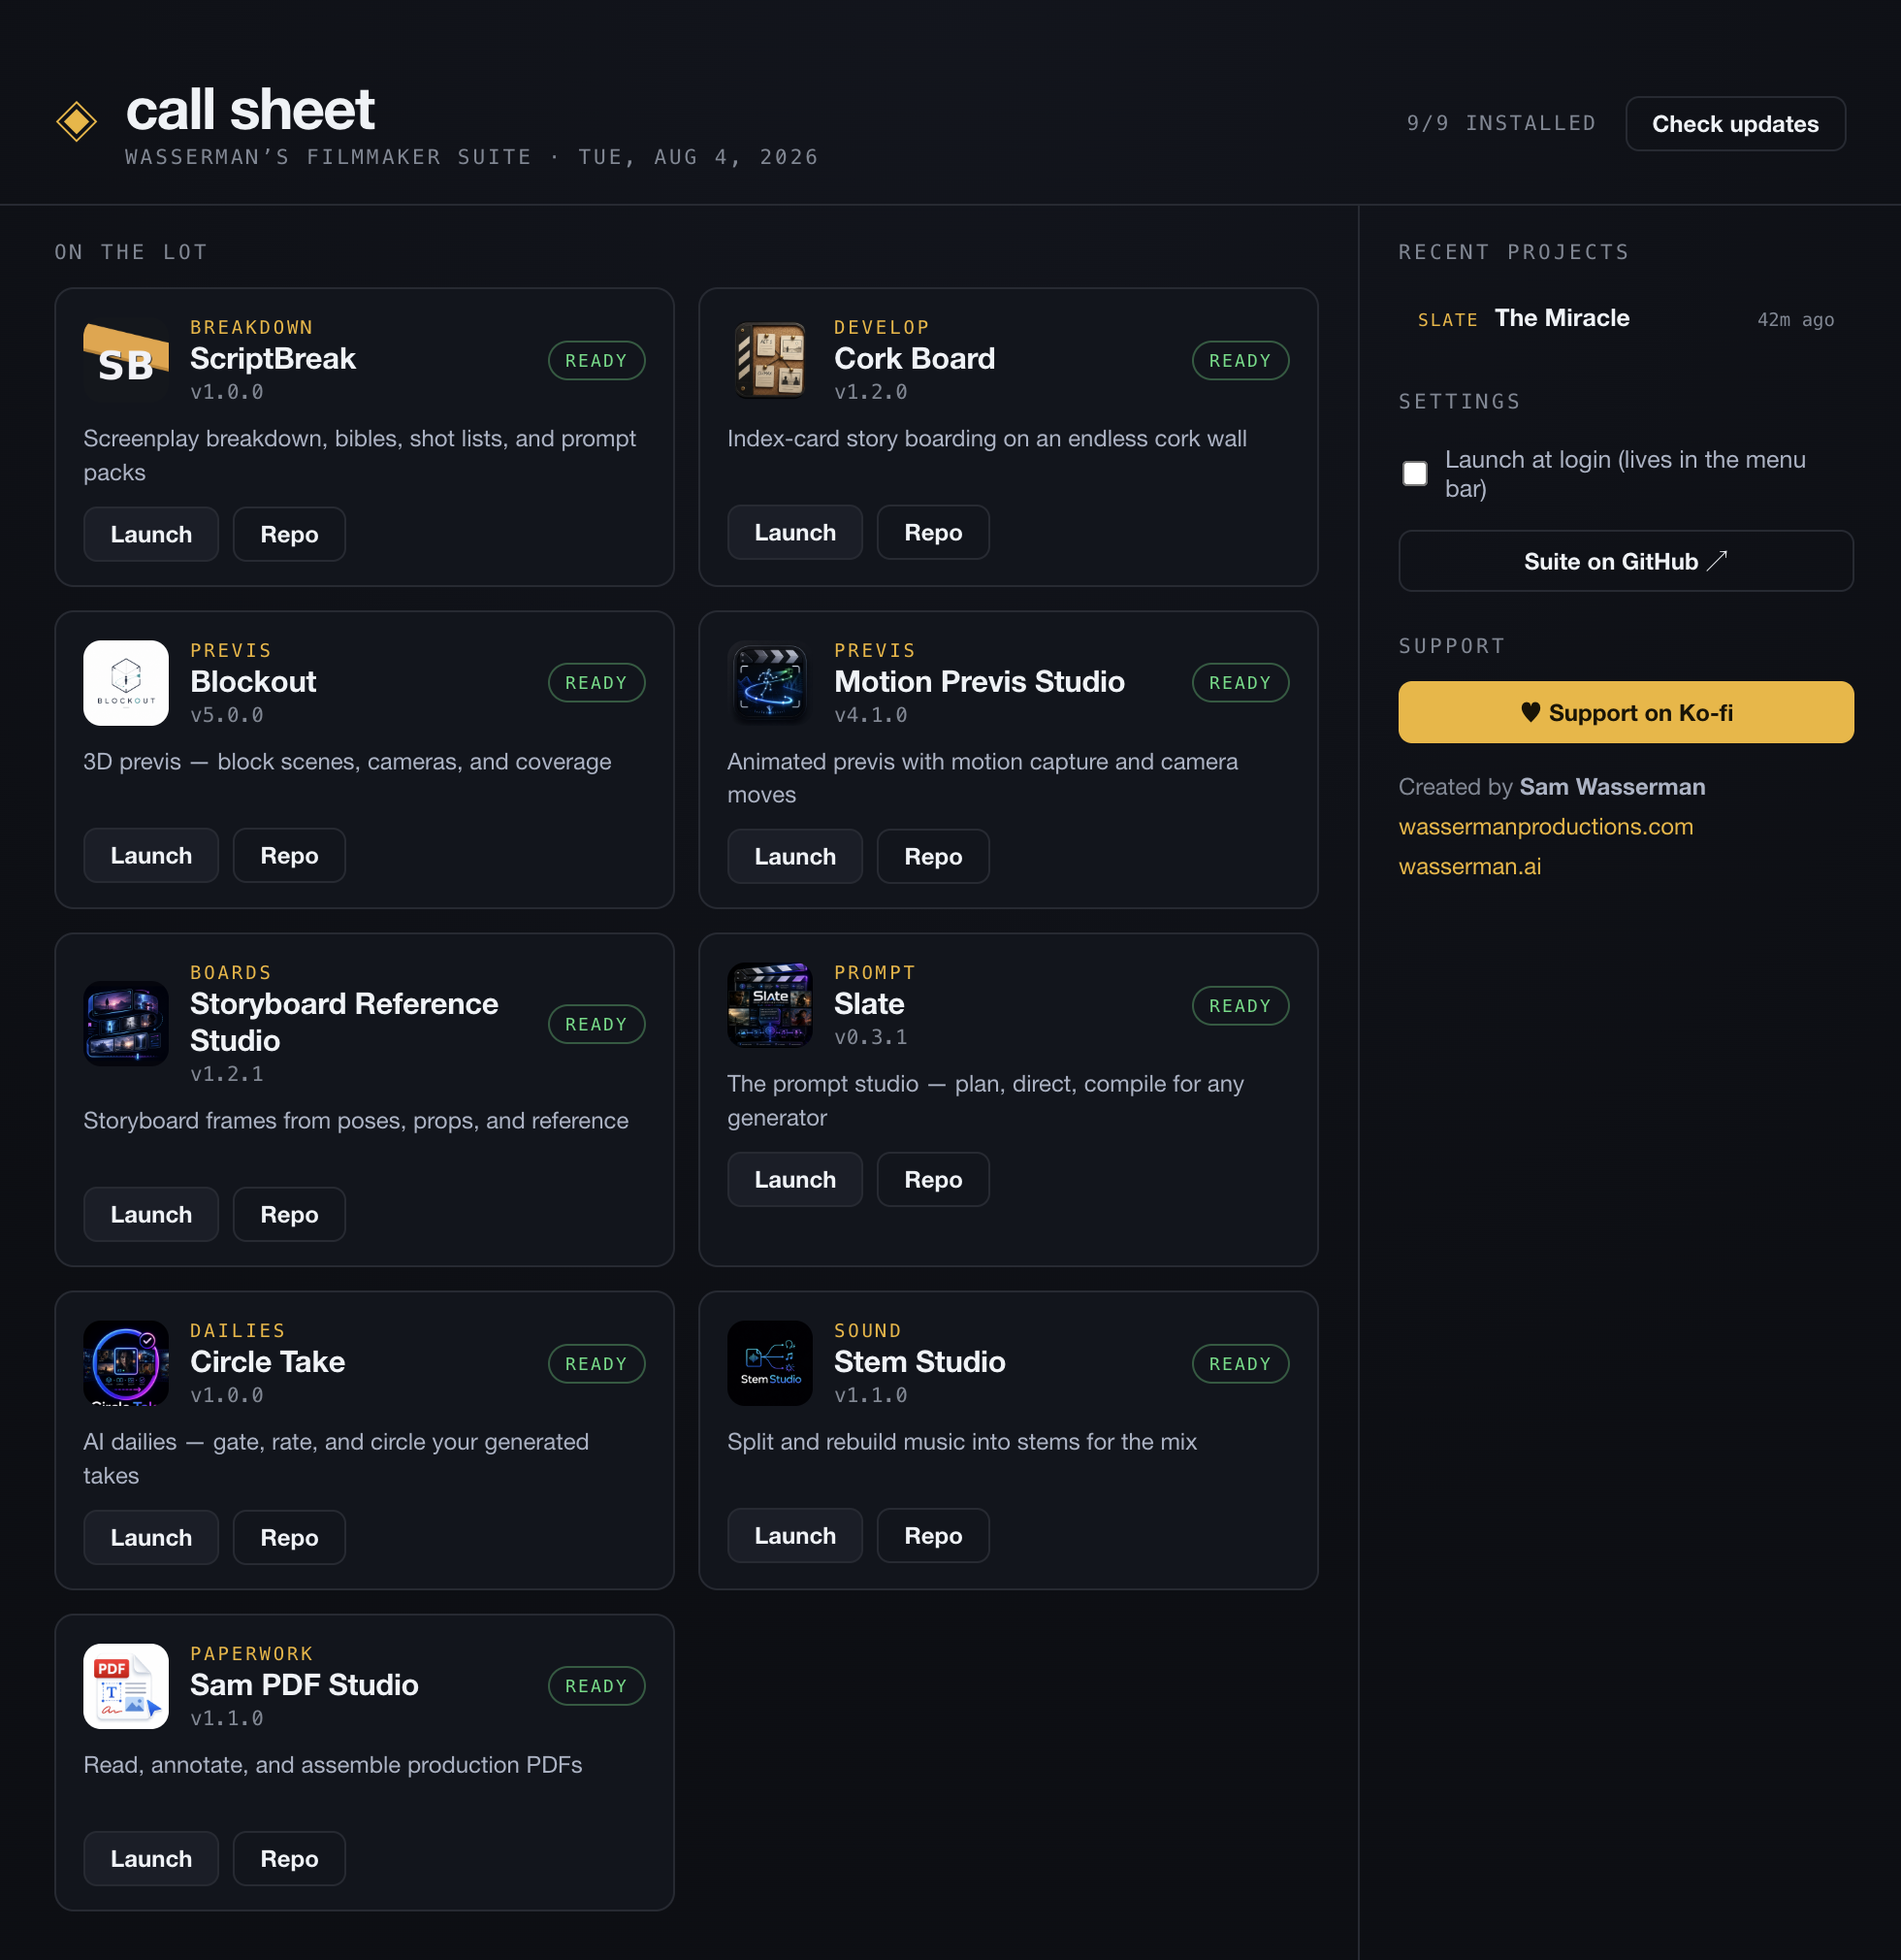
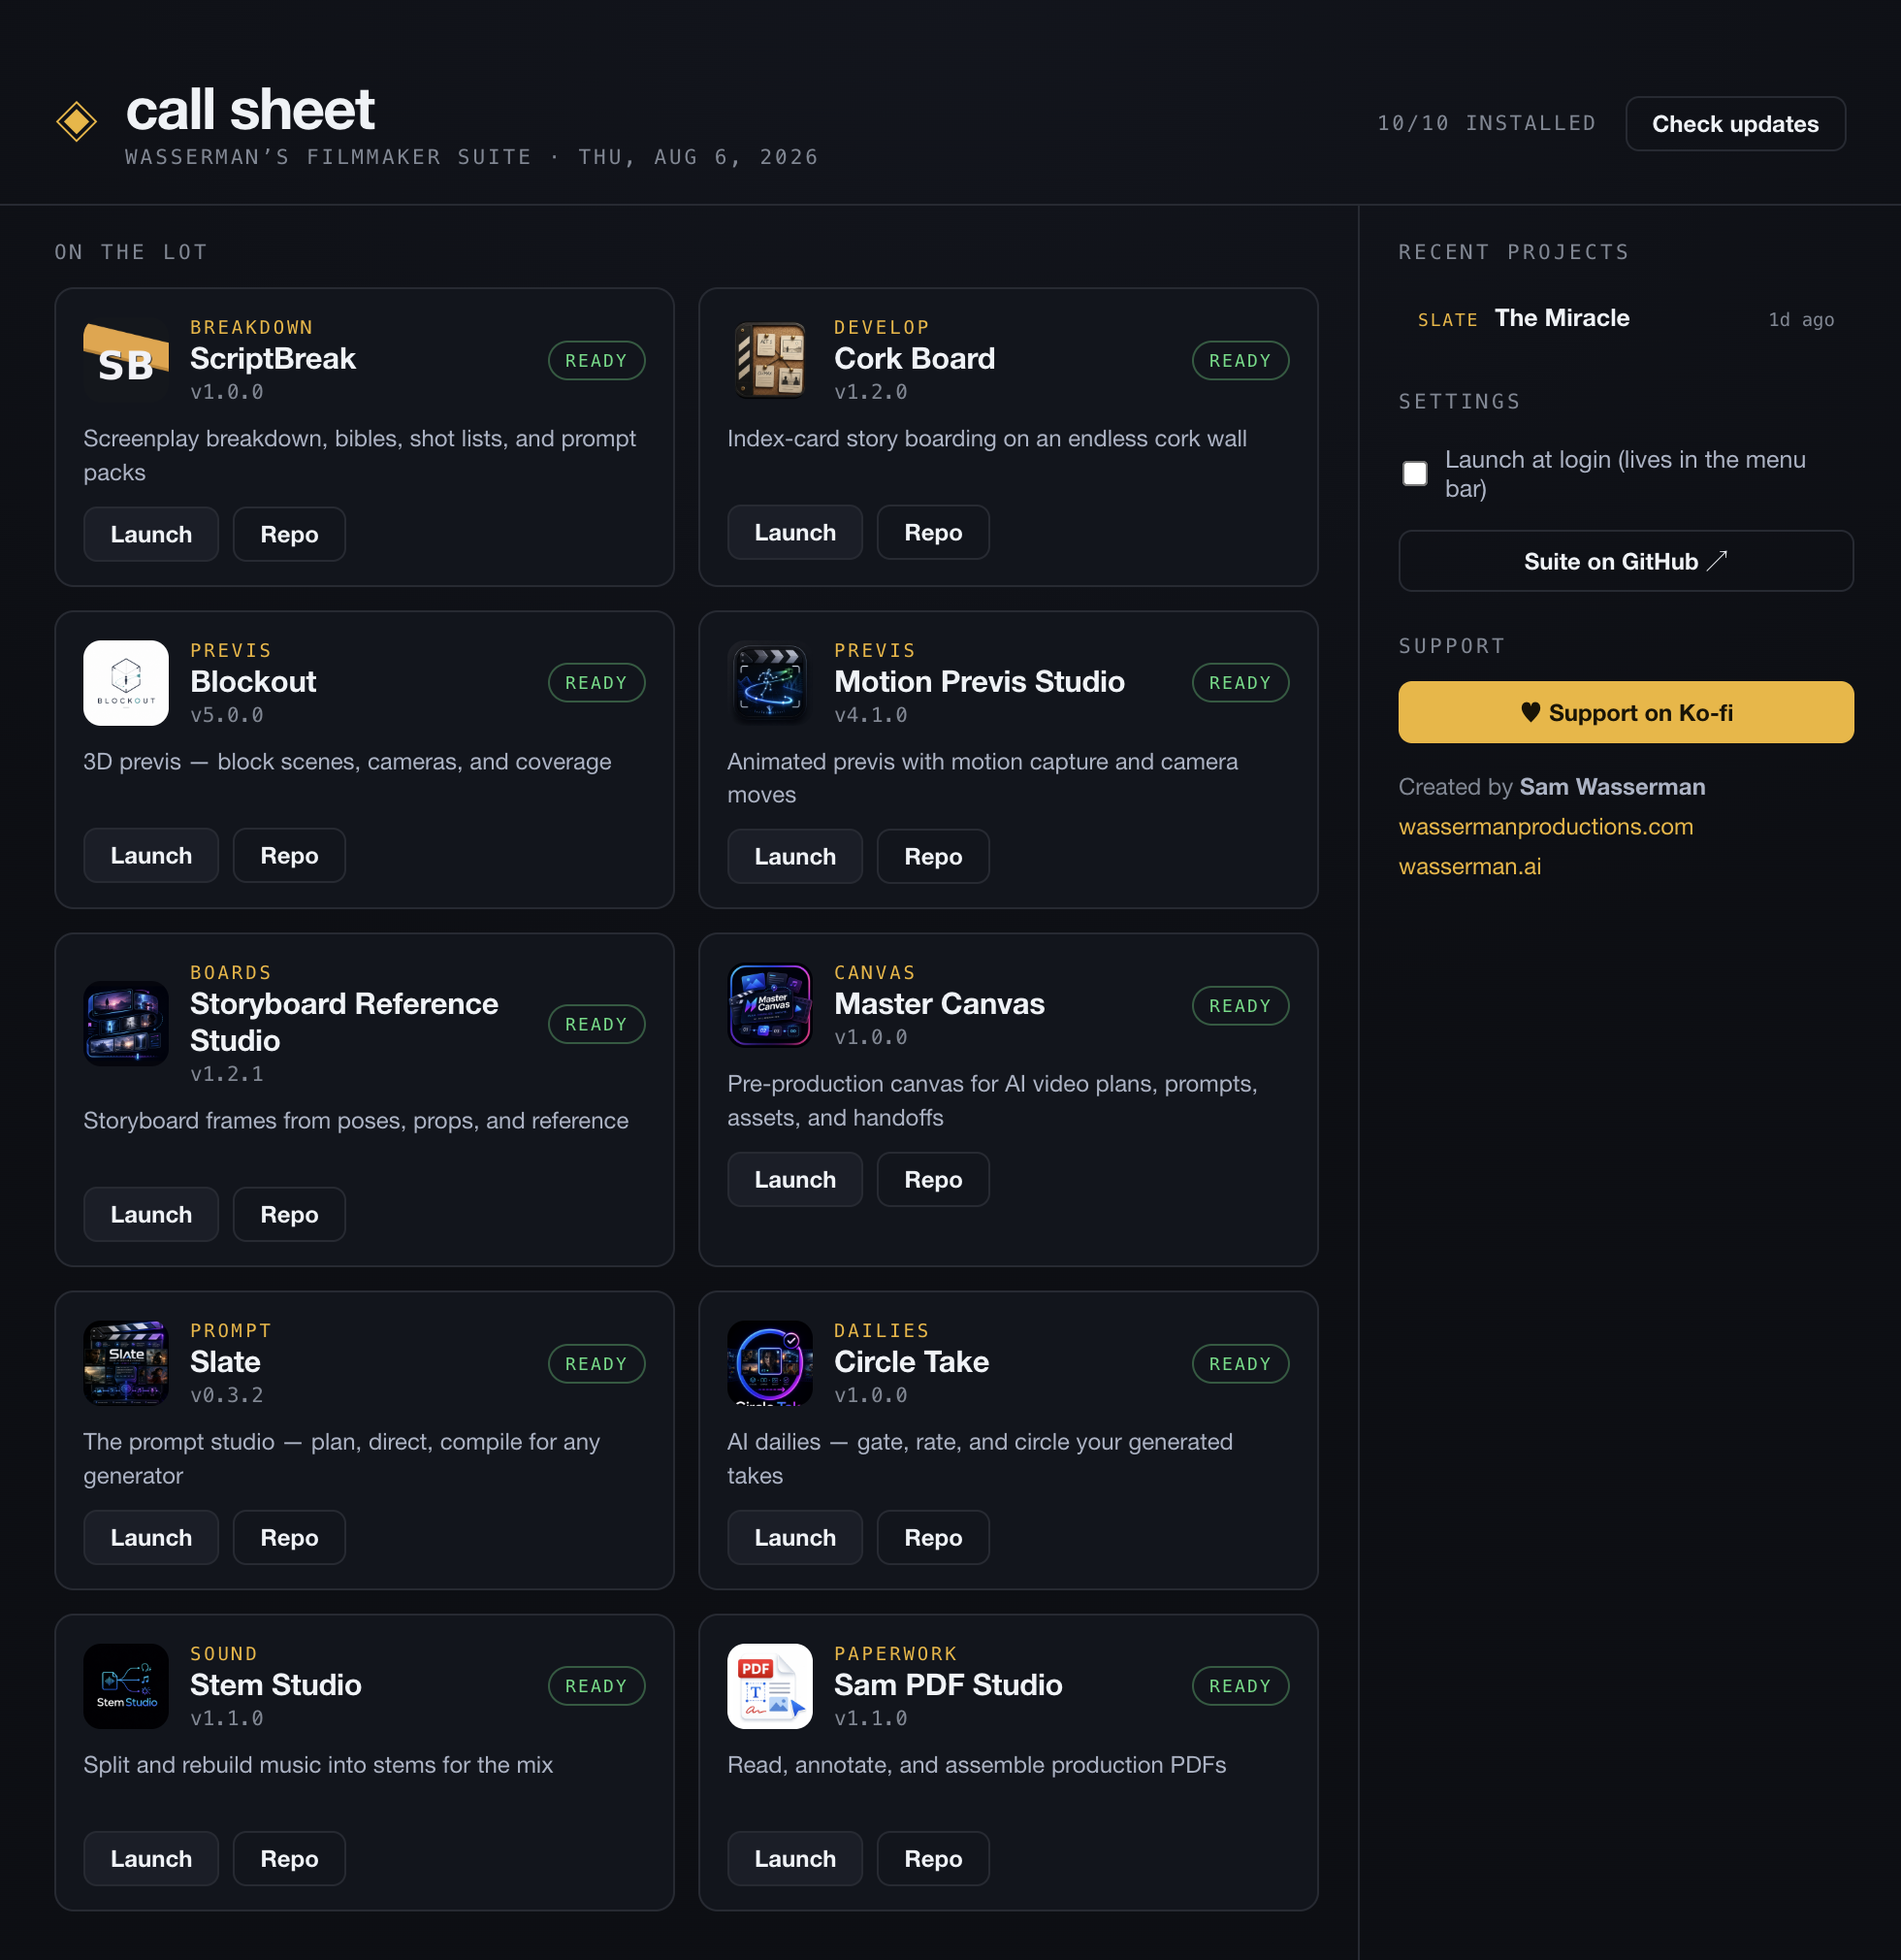
Add Master Canvas to Call Sheet (#1)

diff --git a/tests/recents.test.ts b/tests/recents.test.ts
@@ -98,6 +98,6 @@ describe('registry', () => {
       expect(ids.has(a.id)).toBe(false)
       ids.add(a.id)
     }
-    expect(ids.size).toBe(9)
+    expect(ids.size).toBe(10)
   })
 })

diff --git a/README.md b/README.md
@@ -37,7 +37,7 @@ Or grab `CallSheet-macOS.zip` from [Releases](../../releases), unzip into Applic
 
 ## The suite
 
-Call Sheet is the front door to [Wasserman's Filmmaker Suite](https://github.com/wassermanproductions/wassermans-filmmaker-suite) — ScriptBreak, Cork Board, Blockout, Motion Previs Studio, Storyboard Reference Studio, Slate, Circle Take, Stem Studio, and Sam PDF Studio.
+Call Sheet is the front door to [Wasserman's Filmmaker Suite](https://github.com/wassermanproductions/wassermans-filmmaker-suite) — ScriptBreak, Cork Board, Blockout, Motion Previs Studio, Storyboard Reference Studio, Master Canvas, Slate, Circle Take, Stem Studio, and Sam PDF Studio.
 
 ## Development
 
